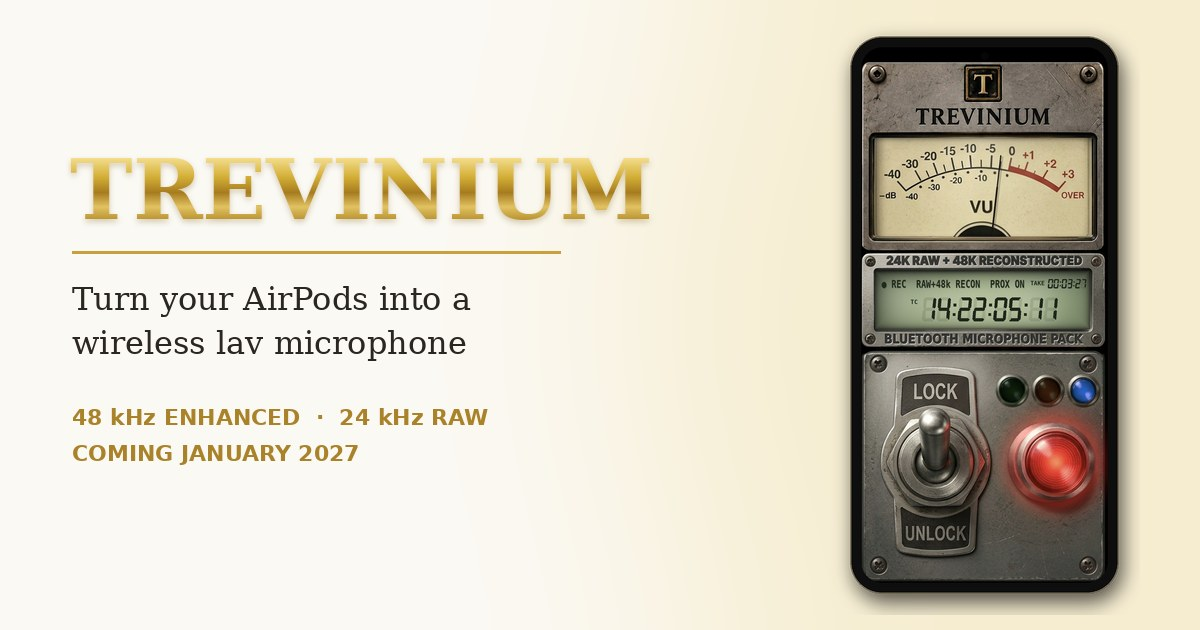
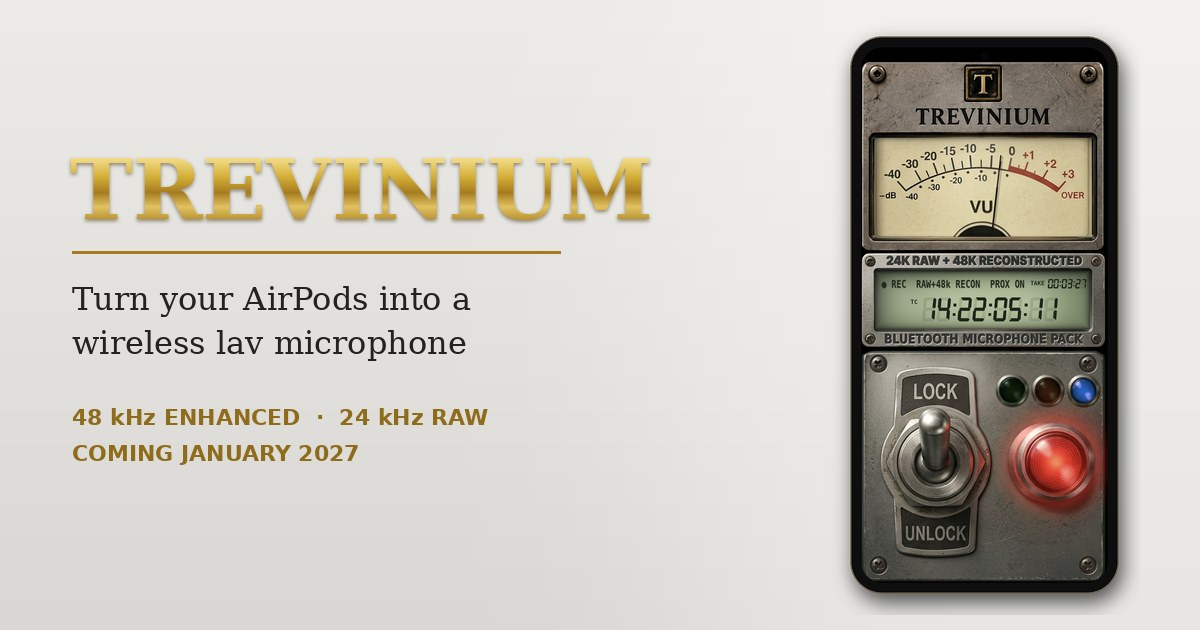
Brushed-silver palette; "enhanced, not just upsampled" wording
- Background and cards move from white to light brushed silver, like the
  player's metal panel; gold lettering kept, with a darker edge so it
  reads on silver. Share image updated to match.
- 48 kHz copy: enhanced, not just upsampled; the original audio is never
  touched; only the airy detail at the very top of the range is added
  (the part you feel more than hear).

Claude-Session: https://claude.ai/code/session_012MVFyXrQmXm8KJb1HuvaSm

diff --git a/assets/site.css b/assets/site.css
@@ -1,1 +1,1 @@
-*,:after,:before{--tw-border-spacing-x:0;--tw-border-spacing-y:0;--tw-translate-x:0;--tw-translate-y:0;--tw-rotate:0;--tw-skew-x:0;--tw-skew-y:0;--tw-scale-x:1;--tw-scale-y:1;--tw-pan-x: ;--tw-pan-y: ;--tw-pinch-zoom: ;--tw-scroll-snap-strictness:proximity;--tw-gradient-from-position: ;--tw-gradient-via-position: ;--tw-gradient-to-position: ;--tw-ordinal: ;--tw-slashed-zero: ;--tw-numeric-figure: ;--tw-numeric-spacing: ;--tw-numeric-fraction: ;--tw-ring-inset: ;--tw-ring-offset-width:0px;--tw-ring-offset-color:#fff;--tw-ring-color:rgba(59,130,246,.5);--tw-ring-offset-shadow:0 0 #0000;--tw-ring-shadow:0 0 #0000;--tw-shadow:0 0 #0000;--tw-shadow-colored:0 0 #0000;--tw-blur: ;--tw-brightness: ;--tw-contrast: ;--tw-grayscale: ;--tw-hue-rotate: ;--tw-invert: ;--tw-saturate: ;--tw-sepia: ;--tw-drop-shadow: ;--tw-backdrop-blur: ;--tw-backdrop-brightness: ;--tw-backdrop-contrast: ;--tw-backdrop-grayscale: ;--tw-backdrop-hue-rotate: ;--tw-backdrop-invert: ;--tw-backdrop-opacity: ;--tw-backdrop-saturate: ;--tw-backdrop-sepia: ;--tw-contain-size: ;--tw-contain-layout: ;--tw-contain-paint: ;--tw-contain-style: }::backdrop{--tw-border-spacing-x:0;--tw-border-spacing-y:0;--tw-translate-x:0;--tw-translate-y:0;--tw-rotate:0;--tw-skew-x:0;--tw-skew-y:0;--tw-scale-x:1;--tw-scale-y:1;--tw-pan-x: ;--tw-pan-y: ;--tw-pinch-zoom: ;--tw-scroll-snap-strictness:proximity;--tw-gradient-from-position: ;--tw-gradient-via-position: ;--tw-gradient-to-position: ;--tw-ordinal: ;--tw-slashed-zero: ;--tw-numeric-figure: ;--tw-numeric-spacing: ;--tw-numeric-fraction: ;--tw-ring-inset: ;--tw-ring-offset-width:0px;--tw-ring-offset-color:#fff;--tw-ring-color:rgba(59,130,246,.5);--tw-ring-offset-shadow:0 0 #0000;--tw-ring-shadow:0 0 #0000;--tw-shadow:0 0 #0000;--tw-shadow-colored:0 0 #0000;--tw-blur: ;--tw-brightness: ;--tw-contrast: ;--tw-grayscale: ;--tw-hue-rotate: ;--tw-invert: ;--tw-saturate: ;--tw-sepia: ;--tw-drop-shadow: ;--tw-backdrop-blur: ;--tw-backdrop-brightness: ;--tw-backdrop-contrast: ;--tw-backdrop-grayscale: ;--tw-backdrop-hue-rotate: ;--tw-backdrop-invert: ;--tw-backdrop-opacity: ;--tw-backdrop-saturate: ;--tw-backdrop-sepia: ;--tw-contain-size: ;--tw-contain-layout: ;--tw-contain-paint: ;--tw-contain-style: }/*! tailwindcss v3.4.17 | MIT License | https://tailwindcss.com*/*,:after,:before{box-sizing:border-box;border:0 solid #e5e7eb}:after,:before{--tw-content:""}:host,html{line-height:1.5;-webkit-text-size-adjust:100%;-moz-tab-size:4;-o-tab-size:4;tab-size:4;font-family:ui-sans-serif,system-ui,sans-serif,Apple Color Emoji,Segoe UI Emoji,Segoe UI Symbol,Noto Color Emoji;font-feature-settings:normal;font-variation-settings:normal;-webkit-tap-highlight-color:transparent}body{margin:0;line-height:inherit}hr{height:0;color:inherit;border-top-width:1px}abbr:where([title]){-webkit-text-decoration:underline dotted;text-decoration:underline dotted}h1,h2,h3,h4,h5,h6{font-size:inherit;font-weight:inherit}a{color:inherit;text-decoration:inherit}b,strong{font-weight:bolder}code,kbd,pre,samp{font-family:ui-monospace,SFMono-Regular,Menlo,Monaco,Consolas,Liberation Mono,Courier New,monospace;font-feature-settings:normal;font-variation-settings:normal;font-size:1em}small{font-size:80%}sub,sup{font-size:75%;line-height:0;position:relative;vertical-align:baseline}sub{bottom:-.25em}sup{top:-.5em}table{text-indent:0;border-color:inherit;border-collapse:collapse}button,input,optgroup,select,textarea{font-family:inherit;font-feature-settings:inherit;font-variation-settings:inherit;font-size:100%;font-weight:inherit;line-height:inherit;letter-spacing:inherit;color:inherit;margin:0;padding:0}button,select{text-transform:none}button,input:where([type=button]),input:where([type=reset]),input:where([type=submit]){-webkit-appearance:button;background-color:transparent;background-image:none}:-moz-focusring{outline:auto}:-moz-ui-invalid{box-shadow:none}progress{vertical-align:baseline}::-webkit-inner-spin-button,::-webkit-outer-spin-button{height:auto}[type=search]{-webkit-appearance:textfield;outline-offset:-2px}::-webkit-search-decoration{-webkit-appearance:none}::-webkit-file-upload-button{-webkit-appearance:button;font:inherit}summary{display:list-item}blockquote,dd,dl,figure,h1,h2,h3,h4,h5,h6,hr,p,pre{margin:0}fieldset{margin:0}fieldset,legend{padding:0}menu,ol,ul{list-style:none;margin:0;padding:0}dialog{padding:0}textarea{resize:vertical}input::-moz-placeholder,textarea::-moz-placeholder{opacity:1;color:#9ca3af}input::placeholder,textarea::placeholder{opacity:1;color:#9ca3af}[role=button],button{cursor:pointer}:disabled{cursor:default}audio,canvas,embed,iframe,img,object,svg,video{display:block;vertical-align:middle}img,video{max-width:100%;height:auto}[hidden]:where(:not([hidden=until-found])){display:none}.container{width:100%}@media (min-width:640px){.container{max-width:640px}}@media (min-width:768px){.container{max-width:768px}}@media (min-width:1024px){.container{max-width:1024px}}@media (min-width:1280px){.container{max-width:1280px}}@media (min-width:1536px){.container{max-width:1536px}}.absolute{position:absolute}.relative{position:relative}.sticky{position:sticky}.bottom-8{bottom:2rem}.top-0{top:0}.z-50{z-index:50}.mx-auto{margin-left:auto;margin-right:auto}.mb-1{margin-bottom:.25rem}.mb-10{margin-bottom:2.5rem}.mb-12{margin-bottom:3rem}.mb-14{margin-bottom:3.5rem}.mb-2{margin-bottom:.5rem}.mb-3{margin-bottom:.75rem}.mb-4{margin-bottom:1rem}.mb-5{margin-bottom:1.25rem}.mb-6{margin-bottom:1.5rem}.mb-8{margin-bottom:2rem}.mt-16{margin-top:4rem}.mt-3{margin-top:.75rem}.block{display:block}.inline-block{display:inline-block}.flex{display:flex}.grid{display:grid}.hidden{display:none}.h-10{height:2.5rem}.h-16{height:4rem}.h-28{height:7rem}.h-8{height:2rem}.max-h-\[620px\]{max-height:620px}.max-h-\[76vh\]{max-height:76vh}.max-h-full{max-height:100%}.w-10{width:2.5rem}.w-16{width:4rem}.w-72{width:18rem}.w-8{width:2rem}.w-auto{width:auto}.w-full{width:100%}.max-w-2xl{max-width:42rem}.max-w-3xl{max-width:48rem}.max-w-4xl{max-width:56rem}.max-w-6xl{max-width:72rem}.max-w-7xl{max-width:80rem}.max-w-full{max-width:100%}.max-w-xl{max-width:36rem}.flex-1{flex:1 1 0%}.transform{transform:translate(var(--tw-translate-x),var(--tw-translate-y)) rotate(var(--tw-rotate)) skewX(var(--tw-skew-x)) skewY(var(--tw-skew-y)) scaleX(var(--tw-scale-x)) scaleY(var(--tw-scale-y))}@keyframes bounce{0%,to{transform:translateY(-25%);animation-timing-function:cubic-bezier(.8,0,1,1)}50%{transform:none;animation-timing-function:cubic-bezier(0,0,.2,1)}}.animate-bounce{animation:bounce 1s infinite}.cursor-pointer{cursor:pointer}.grid-cols-3{grid-template-columns:repeat(3,minmax(0,1fr))}.flex-col{flex-direction:column}.items-start{align-items:flex-start}.items-center{align-items:center}.justify-start{justify-content:flex-start}.justify-center{justify-content:center}.justify-between{justify-content:space-between}.gap-12{gap:3rem}.gap-2{gap:.5rem}.gap-3{gap:.75rem}.gap-4{gap:1rem}.gap-6{gap:1.5rem}.gap-8{gap:2rem}.space-y-2>:not([hidden])~:not([hidden]){--tw-space-y-reverse:0;margin-top:calc(.5rem*(1 - var(--tw-space-y-reverse)));margin-bottom:calc(.5rem*var(--tw-space-y-reverse))}.space-y-4>:not([hidden])~:not([hidden]){--tw-space-y-reverse:0;margin-top:calc(1rem*(1 - var(--tw-space-y-reverse)));margin-bottom:calc(1rem*var(--tw-space-y-reverse))}.space-y-5>:not([hidden])~:not([hidden]){--tw-space-y-reverse:0;margin-top:calc(1.25rem*(1 - var(--tw-space-y-reverse)));margin-bottom:calc(1.25rem*var(--tw-space-y-reverse))}.space-y-6>:not([hidden])~:not([hidden]){--tw-space-y-reverse:0;margin-top:calc(1.5rem*(1 - var(--tw-space-y-reverse)));margin-bottom:calc(1.5rem*var(--tw-space-y-reverse))}.overflow-hidden{overflow:hidden}.whitespace-nowrap{white-space:nowrap}.rounded{border-radius:.25rem}.rounded-2xl{border-radius:1rem}.rounded-full{border-radius:9999px}.rounded-lg{border-radius:.5rem}.rounded-sm{border-radius:.125rem}.rounded-xl{border-radius:.75rem}.border{border-width:1px}.bg-white{--tw-bg-opacity:1;background-color:rgb(255 255 255/var(--tw-bg-opacity,1))}.object-contain{-o-object-fit:contain;object-fit:contain}.object-cover{-o-object-fit:cover;object-fit:cover}.object-top{-o-object-position:top;object-position:top}.p-4{padding:1rem}.p-6{padding:1.5rem}.p-8{padding:2rem}.px-4{padding-left:1rem;padding-right:1rem}.px-5{padding-left:1.25rem;padding-right:1.25rem}.px-6{padding-left:1.5rem;padding-right:1.5rem}.px-8{padding-left:2rem;padding-right:2rem}.py-1{padding-top:.25rem;padding-bottom:.25rem}.py-12{padding-top:3rem;padding-bottom:3rem}.py-2{padding-top:.5rem;padding-bottom:.5rem}.py-20{padding-top:5rem;padding-bottom:5rem}.py-4{padding-top:1rem;padding-bottom:1rem}.py-5{padding-top:1.25rem;padding-bottom:1.25rem}.pb-2{padding-bottom:.5rem}.pb-24{padding-bottom:6rem}.pt-10{padding-top:2.5rem}.pt-4{padding-top:1rem}.pt-8{padding-top:2rem}.text-center{text-align:center}.text-2xl{font-size:1.5rem;line-height:2rem}.text-3xl{font-size:1.875rem;line-height:2.25rem}.text-4xl{font-size:2.25rem;line-height:2.5rem}.text-5xl{font-size:3rem;line-height:1}.text-base{font-size:1rem;line-height:1.5rem}.text-lg{font-size:1.125rem;line-height:1.75rem}.text-sm{font-size:.875rem;line-height:1.25rem}.text-xl{font-size:1.25rem;line-height:1.75rem}.text-xs{font-size:.75rem;line-height:1rem}.font-bold{font-weight:700}.font-extrabold{font-weight:800}.font-semibold{font-weight:600}.uppercase{text-transform:uppercase}.leading-relaxed{line-height:1.625}.text-black{--tw-text-opacity:1;color:rgb(0 0 0/var(--tw-text-opacity,1))}.blur{--tw-blur:blur(8px)}.blur,.drop-shadow{filter:var(--tw-blur) var(--tw-brightness) var(--tw-contrast) var(--tw-grayscale) var(--tw-hue-rotate) var(--tw-invert) var(--tw-saturate) var(--tw-sepia) var(--tw-drop-shadow)}.drop-shadow{--tw-drop-shadow:drop-shadow(0 1px 2px rgba(0,0,0,.1)) drop-shadow(0 1px 1px rgba(0,0,0,.06))}.filter{filter:var(--tw-blur) var(--tw-brightness) var(--tw-contrast) var(--tw-grayscale) var(--tw-hue-rotate) var(--tw-invert) var(--tw-saturate) var(--tw-sepia) var(--tw-drop-shadow)}.backdrop-filter{-webkit-backdrop-filter:var(--tw-backdrop-blur) var(--tw-backdrop-brightness) var(--tw-backdrop-contrast) var(--tw-backdrop-grayscale) var(--tw-backdrop-hue-rotate) var(--tw-backdrop-invert) var(--tw-backdrop-opacity) var(--tw-backdrop-saturate) var(--tw-backdrop-sepia);backdrop-filter:var(--tw-backdrop-blur) var(--tw-backdrop-brightness) var(--tw-backdrop-contrast) var(--tw-backdrop-grayscale) var(--tw-backdrop-hue-rotate) var(--tw-backdrop-invert) var(--tw-backdrop-opacity) var(--tw-backdrop-saturate) var(--tw-backdrop-sepia)}.transition{transition-property:color,background-color,border-color,text-decoration-color,fill,stroke,opacity,box-shadow,transform,filter,-webkit-backdrop-filter;transition-property:color,background-color,border-color,text-decoration-color,fill,stroke,opacity,box-shadow,transform,filter,backdrop-filter;transition-property:color,background-color,border-color,text-decoration-color,fill,stroke,opacity,box-shadow,transform,filter,backdrop-filter,-webkit-backdrop-filter;transition-timing-function:cubic-bezier(.4,0,.2,1);transition-duration:.15s}.transition-all{transition-property:all;transition-timing-function:cubic-bezier(.4,0,.2,1);transition-duration:.15s}.hover\:underline:hover{text-decoration-line:underline}@media (min-width:640px){.sm\:inline{display:inline}.sm\:px-6{padding-left:1.5rem;padding-right:1.5rem}.sm\:py-3{padding-top:.75rem;padding-bottom:.75rem}.sm\:text-sm{font-size:.875rem;line-height:1.25rem}}@media (min-width:768px){.md\:block{display:block}.md\:hidden{display:none}.md\:grid-cols-2{grid-template-columns:repeat(2,minmax(0,1fr))}.md\:grid-cols-3{grid-template-columns:repeat(3,minmax(0,1fr))}.md\:p-12{padding:3rem}.md\:text-2xl{font-size:1.5rem;line-height:2rem}.md\:text-4xl{font-size:2.25rem;line-height:2.5rem}.md\:text-5xl{font-size:3rem;line-height:1}.md\:text-7xl{font-size:4.5rem;line-height:1}.md\:text-lg{font-size:1.125rem;line-height:1.75rem}.md\:text-xl{font-size:1.25rem;line-height:1.75rem}}@media (min-width:1024px){.lg\:grid-cols-3{grid-template-columns:repeat(3,minmax(0,1fr))}}
+*,:after,:before{--tw-border-spacing-x:0;--tw-border-spacing-y:0;--tw-translate-x:0;--tw-translate-y:0;--tw-rotate:0;--tw-skew-x:0;--tw-skew-y:0;--tw-scale-x:1;--tw-scale-y:1;--tw-pan-x: ;--tw-pan-y: ;--tw-pinch-zoom: ;--tw-scroll-snap-strictness:proximity;--tw-gradient-from-position: ;--tw-gradient-via-position: ;--tw-gradient-to-position: ;--tw-ordinal: ;--tw-slashed-zero: ;--tw-numeric-figure: ;--tw-numeric-spacing: ;--tw-numeric-fraction: ;--tw-ring-inset: ;--tw-ring-offset-width:0px;--tw-ring-offset-color:#fff;--tw-ring-color:rgba(59,130,246,.5);--tw-ring-offset-shadow:0 0 #0000;--tw-ring-shadow:0 0 #0000;--tw-shadow:0 0 #0000;--tw-shadow-colored:0 0 #0000;--tw-blur: ;--tw-brightness: ;--tw-contrast: ;--tw-grayscale: ;--tw-hue-rotate: ;--tw-invert: ;--tw-saturate: ;--tw-sepia: ;--tw-drop-shadow: ;--tw-backdrop-blur: ;--tw-backdrop-brightness: ;--tw-backdrop-contrast: ;--tw-backdrop-grayscale: ;--tw-backdrop-hue-rotate: ;--tw-backdrop-invert: ;--tw-backdrop-opacity: ;--tw-backdrop-saturate: ;--tw-backdrop-sepia: ;--tw-contain-size: ;--tw-contain-layout: ;--tw-contain-paint: ;--tw-contain-style: }::backdrop{--tw-border-spacing-x:0;--tw-border-spacing-y:0;--tw-translate-x:0;--tw-translate-y:0;--tw-rotate:0;--tw-skew-x:0;--tw-skew-y:0;--tw-scale-x:1;--tw-scale-y:1;--tw-pan-x: ;--tw-pan-y: ;--tw-pinch-zoom: ;--tw-scroll-snap-strictness:proximity;--tw-gradient-from-position: ;--tw-gradient-via-position: ;--tw-gradient-to-position: ;--tw-ordinal: ;--tw-slashed-zero: ;--tw-numeric-figure: ;--tw-numeric-spacing: ;--tw-numeric-fraction: ;--tw-ring-inset: ;--tw-ring-offset-width:0px;--tw-ring-offset-color:#fff;--tw-ring-color:rgba(59,130,246,.5);--tw-ring-offset-shadow:0 0 #0000;--tw-ring-shadow:0 0 #0000;--tw-shadow:0 0 #0000;--tw-shadow-colored:0 0 #0000;--tw-blur: ;--tw-brightness: ;--tw-contrast: ;--tw-grayscale: ;--tw-hue-rotate: ;--tw-invert: ;--tw-saturate: ;--tw-sepia: ;--tw-drop-shadow: ;--tw-backdrop-blur: ;--tw-backdrop-brightness: ;--tw-backdrop-contrast: ;--tw-backdrop-grayscale: ;--tw-backdrop-hue-rotate: ;--tw-backdrop-invert: ;--tw-backdrop-opacity: ;--tw-backdrop-saturate: ;--tw-backdrop-sepia: ;--tw-contain-size: ;--tw-contain-layout: ;--tw-contain-paint: ;--tw-contain-style: }/*! tailwindcss v3.4.17 | MIT License | https://tailwindcss.com*/*,:after,:before{box-sizing:border-box;border:0 solid #e5e7eb}:after,:before{--tw-content:""}:host,html{line-height:1.5;-webkit-text-size-adjust:100%;-moz-tab-size:4;-o-tab-size:4;tab-size:4;font-family:ui-sans-serif,system-ui,sans-serif,Apple Color Emoji,Segoe UI Emoji,Segoe UI Symbol,Noto Color Emoji;font-feature-settings:normal;font-variation-settings:normal;-webkit-tap-highlight-color:transparent}body{margin:0;line-height:inherit}hr{height:0;color:inherit;border-top-width:1px}abbr:where([title]){-webkit-text-decoration:underline dotted;text-decoration:underline dotted}h1,h2,h3,h4,h5,h6{font-size:inherit;font-weight:inherit}a{color:inherit;text-decoration:inherit}b,strong{font-weight:bolder}code,kbd,pre,samp{font-family:ui-monospace,SFMono-Regular,Menlo,Monaco,Consolas,Liberation Mono,Courier New,monospace;font-feature-settings:normal;font-variation-settings:normal;font-size:1em}small{font-size:80%}sub,sup{font-size:75%;line-height:0;position:relative;vertical-align:baseline}sub{bottom:-.25em}sup{top:-.5em}table{text-indent:0;border-color:inherit;border-collapse:collapse}button,input,optgroup,select,textarea{font-family:inherit;font-feature-settings:inherit;font-variation-settings:inherit;font-size:100%;font-weight:inherit;line-height:inherit;letter-spacing:inherit;color:inherit;margin:0;padding:0}button,select{text-transform:none}button,input:where([type=button]),input:where([type=reset]),input:where([type=submit]){-webkit-appearance:button;background-color:transparent;background-image:none}:-moz-focusring{outline:auto}:-moz-ui-invalid{box-shadow:none}progress{vertical-align:baseline}::-webkit-inner-spin-button,::-webkit-outer-spin-button{height:auto}[type=search]{-webkit-appearance:textfield;outline-offset:-2px}::-webkit-search-decoration{-webkit-appearance:none}::-webkit-file-upload-button{-webkit-appearance:button;font:inherit}summary{display:list-item}blockquote,dd,dl,figure,h1,h2,h3,h4,h5,h6,hr,p,pre{margin:0}fieldset{margin:0}fieldset,legend{padding:0}menu,ol,ul{list-style:none;margin:0;padding:0}dialog{padding:0}textarea{resize:vertical}input::-moz-placeholder,textarea::-moz-placeholder{opacity:1;color:#9ca3af}input::placeholder,textarea::placeholder{opacity:1;color:#9ca3af}[role=button],button{cursor:pointer}:disabled{cursor:default}audio,canvas,embed,iframe,img,object,svg,video{display:block;vertical-align:middle}img,video{max-width:100%;height:auto}[hidden]:where(:not([hidden=until-found])){display:none}.absolute{position:absolute}.relative{position:relative}.sticky{position:sticky}.bottom-8{bottom:2rem}.top-0{top:0}.z-50{z-index:50}.mx-auto{margin-left:auto;margin-right:auto}.mb-1{margin-bottom:.25rem}.mb-10{margin-bottom:2.5rem}.mb-12{margin-bottom:3rem}.mb-14{margin-bottom:3.5rem}.mb-2{margin-bottom:.5rem}.mb-3{margin-bottom:.75rem}.mb-4{margin-bottom:1rem}.mb-5{margin-bottom:1.25rem}.mb-6{margin-bottom:1.5rem}.mb-8{margin-bottom:2rem}.mt-16{margin-top:4rem}.mt-3{margin-top:.75rem}.block{display:block}.inline-block{display:inline-block}.flex{display:flex}.grid{display:grid}.hidden{display:none}.h-10{height:2.5rem}.h-16{height:4rem}.h-28{height:7rem}.h-8{height:2rem}.max-h-\[620px\]{max-height:620px}.max-h-\[76vh\]{max-height:76vh}.max-h-full{max-height:100%}.w-10{width:2.5rem}.w-16{width:4rem}.w-72{width:18rem}.w-8{width:2rem}.w-auto{width:auto}.w-full{width:100%}.max-w-2xl{max-width:42rem}.max-w-3xl{max-width:48rem}.max-w-4xl{max-width:56rem}.max-w-6xl{max-width:72rem}.max-w-7xl{max-width:80rem}.max-w-full{max-width:100%}.max-w-xl{max-width:36rem}.flex-1{flex:1 1 0%}.transform{transform:translate(var(--tw-translate-x),var(--tw-translate-y)) rotate(var(--tw-rotate)) skewX(var(--tw-skew-x)) skewY(var(--tw-skew-y)) scaleX(var(--tw-scale-x)) scaleY(var(--tw-scale-y))}@keyframes bounce{0%,to{transform:translateY(-25%);animation-timing-function:cubic-bezier(.8,0,1,1)}50%{transform:none;animation-timing-function:cubic-bezier(0,0,.2,1)}}.animate-bounce{animation:bounce 1s infinite}.cursor-pointer{cursor:pointer}.grid-cols-3{grid-template-columns:repeat(3,minmax(0,1fr))}.flex-col{flex-direction:column}.items-start{align-items:flex-start}.items-center{align-items:center}.justify-start{justify-content:flex-start}.justify-center{justify-content:center}.justify-between{justify-content:space-between}.gap-12{gap:3rem}.gap-2{gap:.5rem}.gap-3{gap:.75rem}.gap-4{gap:1rem}.gap-6{gap:1.5rem}.gap-8{gap:2rem}.space-y-2>:not([hidden])~:not([hidden]){--tw-space-y-reverse:0;margin-top:calc(.5rem*(1 - var(--tw-space-y-reverse)));margin-bottom:calc(.5rem*var(--tw-space-y-reverse))}.space-y-4>:not([hidden])~:not([hidden]){--tw-space-y-reverse:0;margin-top:calc(1rem*(1 - var(--tw-space-y-reverse)));margin-bottom:calc(1rem*var(--tw-space-y-reverse))}.space-y-5>:not([hidden])~:not([hidden]){--tw-space-y-reverse:0;margin-top:calc(1.25rem*(1 - var(--tw-space-y-reverse)));margin-bottom:calc(1.25rem*var(--tw-space-y-reverse))}.space-y-6>:not([hidden])~:not([hidden]){--tw-space-y-reverse:0;margin-top:calc(1.5rem*(1 - var(--tw-space-y-reverse)));margin-bottom:calc(1.5rem*var(--tw-space-y-reverse))}.overflow-hidden{overflow:hidden}.whitespace-nowrap{white-space:nowrap}.rounded{border-radius:.25rem}.rounded-2xl{border-radius:1rem}.rounded-full{border-radius:9999px}.rounded-lg{border-radius:.5rem}.rounded-sm{border-radius:.125rem}.rounded-xl{border-radius:.75rem}.border{border-width:1px}.object-contain{-o-object-fit:contain;object-fit:contain}.object-cover{-o-object-fit:cover;object-fit:cover}.object-top{-o-object-position:top;object-position:top}.p-4{padding:1rem}.p-6{padding:1.5rem}.p-8{padding:2rem}.px-4{padding-left:1rem;padding-right:1rem}.px-5{padding-left:1.25rem;padding-right:1.25rem}.px-6{padding-left:1.5rem;padding-right:1.5rem}.px-8{padding-left:2rem;padding-right:2rem}.py-1{padding-top:.25rem;padding-bottom:.25rem}.py-12{padding-top:3rem;padding-bottom:3rem}.py-2{padding-top:.5rem;padding-bottom:.5rem}.py-20{padding-top:5rem;padding-bottom:5rem}.py-4{padding-top:1rem;padding-bottom:1rem}.py-5{padding-top:1.25rem;padding-bottom:1.25rem}.pb-2{padding-bottom:.5rem}.pb-24{padding-bottom:6rem}.pt-10{padding-top:2.5rem}.pt-4{padding-top:1rem}.pt-8{padding-top:2rem}.text-center{text-align:center}.text-2xl{font-size:1.5rem;line-height:2rem}.text-3xl{font-size:1.875rem;line-height:2.25rem}.text-4xl{font-size:2.25rem;line-height:2.5rem}.text-5xl{font-size:3rem;line-height:1}.text-base{font-size:1rem;line-height:1.5rem}.text-lg{font-size:1.125rem;line-height:1.75rem}.text-sm{font-size:.875rem;line-height:1.25rem}.text-xl{font-size:1.25rem;line-height:1.75rem}.text-xs{font-size:.75rem;line-height:1rem}.font-bold{font-weight:700}.font-extrabold{font-weight:800}.font-semibold{font-weight:600}.uppercase{text-transform:uppercase}.leading-relaxed{line-height:1.625}.text-black{--tw-text-opacity:1;color:rgb(0 0 0/var(--tw-text-opacity,1))}.blur{--tw-blur:blur(8px)}.blur,.drop-shadow{filter:var(--tw-blur) var(--tw-brightness) var(--tw-contrast) var(--tw-grayscale) var(--tw-hue-rotate) var(--tw-invert) var(--tw-saturate) var(--tw-sepia) var(--tw-drop-shadow)}.drop-shadow{--tw-drop-shadow:drop-shadow(0 1px 2px rgba(0,0,0,.1)) drop-shadow(0 1px 1px rgba(0,0,0,.06))}.filter{filter:var(--tw-blur) var(--tw-brightness) var(--tw-contrast) var(--tw-grayscale) var(--tw-hue-rotate) var(--tw-invert) var(--tw-saturate) var(--tw-sepia) var(--tw-drop-shadow)}.backdrop-filter{-webkit-backdrop-filter:var(--tw-backdrop-blur) var(--tw-backdrop-brightness) var(--tw-backdrop-contrast) var(--tw-backdrop-grayscale) var(--tw-backdrop-hue-rotate) var(--tw-backdrop-invert) var(--tw-backdrop-opacity) var(--tw-backdrop-saturate) var(--tw-backdrop-sepia);backdrop-filter:var(--tw-backdrop-blur) var(--tw-backdrop-brightness) var(--tw-backdrop-contrast) var(--tw-backdrop-grayscale) var(--tw-backdrop-hue-rotate) var(--tw-backdrop-invert) var(--tw-backdrop-opacity) var(--tw-backdrop-saturate) var(--tw-backdrop-sepia)}.transition{transition-property:color,background-color,border-color,text-decoration-color,fill,stroke,opacity,box-shadow,transform,filter,-webkit-backdrop-filter;transition-property:color,background-color,border-color,text-decoration-color,fill,stroke,opacity,box-shadow,transform,filter,backdrop-filter;transition-property:color,background-color,border-color,text-decoration-color,fill,stroke,opacity,box-shadow,transform,filter,backdrop-filter,-webkit-backdrop-filter;transition-timing-function:cubic-bezier(.4,0,.2,1);transition-duration:.15s}.transition-all{transition-property:all;transition-timing-function:cubic-bezier(.4,0,.2,1);transition-duration:.15s}.hover\:underline:hover{text-decoration-line:underline}@media (min-width:640px){.sm\:inline{display:inline}.sm\:px-6{padding-left:1.5rem;padding-right:1.5rem}.sm\:py-3{padding-top:.75rem;padding-bottom:.75rem}.sm\:text-sm{font-size:.875rem;line-height:1.25rem}}@media (min-width:768px){.md\:block{display:block}.md\:hidden{display:none}.md\:grid-cols-2{grid-template-columns:repeat(2,minmax(0,1fr))}.md\:grid-cols-3{grid-template-columns:repeat(3,minmax(0,1fr))}.md\:p-12{padding:3rem}.md\:text-2xl{font-size:1.5rem;line-height:2rem}.md\:text-4xl{font-size:2.25rem;line-height:2.5rem}.md\:text-5xl{font-size:3rem;line-height:1}.md\:text-7xl{font-size:4.5rem;line-height:1}.md\:text-lg{font-size:1.125rem;line-height:1.75rem}.md\:text-xl{font-size:1.25rem;line-height:1.75rem}}@media (min-width:1024px){.lg\:grid-cols-3{grid-template-columns:repeat(3,minmax(0,1fr))}}

diff --git a/index.html b/index.html
@@ -17,13 +17,15 @@
     <link rel="stylesheet" href="assets/site.css">
     <style>
         :root {
-            --page: #fbf9f4;
-            --cream: #f4efe3;
-            --ink: #2a2620;
-            --muted: #6e675a;
-            --line: #e6dcc4;
-            --gold: #a9822a;          /* readable solid gold for small text */
-            --gold-deep: #8a6a1f;
+            --page: #e3e2de;          /* light brushed silver, like the player's metal */
+            --cream: #d8d6d0;         /* a shade deeper for alternating sections */
+            --card: #f1f0ec;          /* polished silver cards */
+            --ink: #24221e;
+            --muted: #4f4b44;
+            --line: #c4c0b6;
+            --gold: #8f6b1c;          /* readable solid gold for small text on silver */
+            --gold-deep: #7a5a15;
+            --brushed: repeating-linear-gradient(90deg, rgba(255,255,255,0.05) 0 1px, rgba(0,0,0,0.025) 1px 2px, rgba(255,255,255,0) 2px 4px);
             /* polished metallic gold for big lettering */
             --gold-metal: linear-gradient(180deg, #f3dc8a 0%, #d4af37 30%, #a67c1f 55%, #e2c262 78%, #b8912f 100%);
         }
@@ -32,7 +34,7 @@
 
         body {
             font-family: 'Crimson Text', serif;
-            background: var(--page);
+            background: var(--brushed), var(--page);
             color: var(--ink);
         }
 
@@ -46,7 +48,7 @@
             -webkit-background-clip: text;
             background-clip: text;
             color: transparent;
-            filter: drop-shadow(0 1px 0 rgba(255, 255, 255, 0.9)) drop-shadow(0 2px 3px rgba(120, 90, 20, 0.25));
+            filter: drop-shadow(0 1px 0 rgba(255, 255, 255, 0.7)) drop-shadow(0 1px 1px rgba(60, 42, 8, 0.55)) drop-shadow(0 3px 5px rgba(60, 42, 8, 0.25));
         }
 
         .gold { color: var(--gold); }
@@ -58,7 +60,7 @@
         }
 
         .site-header {
-            background: rgba(251, 249, 244, 0.94);
+            background: linear-gradient(180deg, rgba(244, 243, 240, 0.96) 0%, rgba(214, 212, 206, 0.96) 100%);
             backdrop-filter: blur(10px);
             border-bottom: 2px solid;
             border-image: linear-gradient(90deg, #e9d48e, #b8912f, #e9d48e) 1;
@@ -83,18 +85,19 @@
 
         .hero {
             background:
-                radial-gradient(ellipse at 50% 35%, rgba(212, 175, 55, 0.16) 0%, rgba(251, 249, 244, 0) 60%),
-                var(--page);
+                radial-gradient(ellipse at 50% 35%, rgba(255, 255, 255, 0.55) 0%, rgba(255, 255, 255, 0) 60%),
+                var(--brushed),
+                linear-gradient(180deg, #ecebe7 0%, #d9d7d1 100%);
             min-height: 100vh;
         }
 
-        .section-cream { background: var(--cream); }
-        .section-white { background: #ffffff; }
+        .section-cream { background: var(--brushed), linear-gradient(180deg, #d6d4ce 0%, #cfcdc6 100%); }
+        .section-white { background: var(--brushed), linear-gradient(180deg, #e6e5e1 0%, #dddbd6 100%); }
 
         .card {
-            background: #ffffff;
+            background: linear-gradient(180deg, #f7f6f3 0%, #e9e8e3 100%);
             border: 1px solid var(--line);
-            box-shadow: 0 2px 10px rgba(60, 45, 10, 0.05);
+            box-shadow: inset 0 1px 0 rgba(255, 255, 255, 0.9), 0 3px 10px rgba(30, 28, 22, 0.10);
             transition: all 0.3s ease;
         }
 
@@ -114,8 +117,9 @@
         }
 
         .callout {
-            background: linear-gradient(180deg, #fffdf6 0%, #f7efd9 100%);
-            border: 1px solid #e3cf95;
+            background: linear-gradient(180deg, #f6f5f1 0%, #e4e2dc 100%);
+            border: 1px solid #c9b27a;
+            box-shadow: inset 0 1px 0 rgba(255, 255, 255, 0.9), 0 6px 20px rgba(30, 28, 22, 0.12);
         }
 
         .thumb { border: 2px solid var(--line); }
@@ -202,7 +206,7 @@
                         <svg class="w-8 h-8 text-black" fill="none" stroke="currentColor" viewBox="0 0 24 24"><path stroke-linecap="round" stroke-linejoin="round" stroke-width="2" d="M5 3v4M3 5h4M6 17v4m-2-2h4m5-16l2.286 6.857L21 12l-5.714 2.143L13 21l-2.286-6.857L5 12l5.714-2.143L13 3z"></path></svg>
                     </div>
                     <h3 class="text-2xl font-bold mb-3 gold">48 kHz Enhanced</h3>
-                    <p class="muted text-lg">Not just a 48 kHz container like other apps. The sound itself is enhanced to the full 48 kHz range, right on your phone.</p>
+                    <p class="muted text-lg">Enhanced, not just upsampled like other apps. Your original sound is never touched. TREVINIUM only adds the airy detail at the very top of the range, right on your phone.</p>
                 </div>
 
                 <div class="card rounded-xl p-8">
@@ -240,18 +244,21 @@
         </div>
     </section>
 
-    <!-- Not just a container -->
+    <!-- Enhanced, not just upsampled -->
     <section class="py-20 section-white">
         <div class="max-w-4xl mx-auto px-6">
             <div class="callout rounded-2xl p-8 md:p-12 text-center">
-                <h2 class="text-3xl md:text-4xl font-bold mb-6 gold-text">Real 48 kHz Enhanced. Not Just a Container.</h2>
+                <h2 class="text-3xl md:text-4xl font-bold mb-6 gold-text">Enhanced. Not Just Upsampled.</h2>
                 <p class="text-xl leading-relaxed mb-4">
-                    Many apps call themselves "48 kHz" when they only put ordinary Bluetooth audio inside a 48 kHz file.
+                    Many apps call themselves "48 kHz" when all they do is upsample: they stretch ordinary Bluetooth audio into a bigger 48 kHz file.
                     The file gets bigger. The sound stays the same.
                 </p>
+                <p class="text-xl leading-relaxed mb-4">
+                    TREVINIUM never touches your original audio. It keeps every bit of your voice exactly as recorded,
+                    and only adds the airy, high detail at the very top of the range, the part you feel more than hear.
+                </p>
                 <p class="text-xl leading-relaxed muted">
-                    TREVINIUM enhances the sound itself to the full 48 kHz range, right on your phone,
-                    and keeps the 24 kHz raw recording beside it as your backup.
+                    And the untouched 24 kHz raw recording is always saved beside it as your backup.
                 </p>
             </div>
         </div>
@@ -278,7 +285,7 @@
                 <div class="card rounded-xl p-8">
                     <div class="step-number text-5xl font-bold mb-4 gold-text">3</div>
                     <h3 class="text-2xl font-bold mb-3 gold">The 48 kHz Is Enhanced</h3>
-                    <p class="muted text-lg">The app makes the 48 kHz Enhanced file on the phone. No internet needed.</p>
+                    <p class="muted text-lg">The app adds the enhancement on the phone and saves the 48 kHz Enhanced file. Your original is never touched. No internet needed.</p>
                 </div>
             </div>
         </div>
@@ -315,15 +322,15 @@
                         </div>
 
                         <div class="grid grid-cols-3 gap-4 mb-8">
-                            <div class="text-center p-4 bg-white rounded-lg border" style="border-color: var(--line);">
+                            <div class="text-center p-4 card rounded-lg">
                                 <div class="gold font-bold text-sm mb-1">Android</div>
                                 <div class="muted text-sm">Google Play</div>
                             </div>
-                            <div class="text-center p-4 bg-white rounded-lg border" style="border-color: var(--line);">
+                            <div class="text-center p-4 card rounded-lg">
                                 <div class="gold font-bold text-sm mb-1">iPhone</div>
                                 <div class="muted text-sm">App Store</div>
                             </div>
-                            <div class="text-center p-4 bg-white rounded-lg border" style="border-color: var(--line);">
+                            <div class="text-center p-4 card rounded-lg">
                                 <div class="gold font-bold text-sm mb-1">Files</div>
                                 <div class="muted text-sm">WAV, on your phone</div>
                             </div>
@@ -365,7 +372,7 @@
             <div class="space-y-4 text-lg">
                 <details class="card rounded-xl p-6" open>
                     <summary class="cursor-pointer gold text-xl font-semibold">Is it 48 kHz?</summary>
-                    <p class="mt-3 muted">Yes. The Enhanced file is a full 48 kHz file, enhanced on your phone. It is not just a 48 kHz container. The 24 kHz raw file is your untouched original.</p>
+                    <p class="mt-3 muted">Yes. The Enhanced file is a full 48 kHz file, and it is enhanced, not just upsampled. Your original sound is left untouched; only the airy top end, the part you feel more than hear, is added on your phone. The 24 kHz raw file is always saved as your untouched original.</p>
                 </details>
                 <details class="card rounded-xl p-6">
                     <summary class="cursor-pointer gold text-xl font-semibold">Does it need the internet?</summary>
